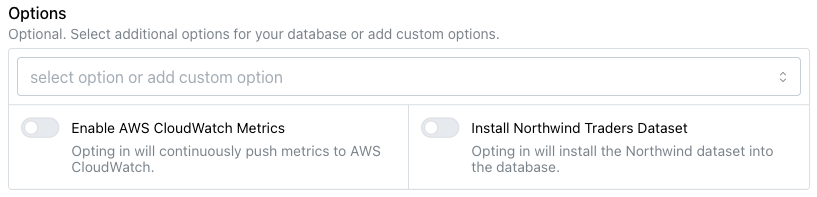
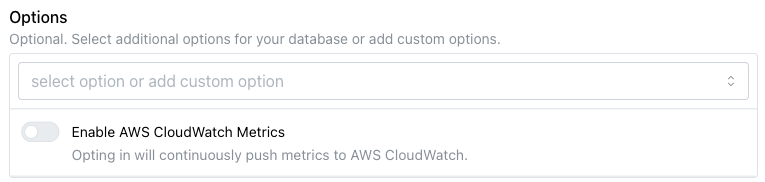
Updated screenshot in create_db for services/options changes

diff --git a/docs/cloud/database/create_db.md b/docs/cloud/database/create_db.md
@@ -48,13 +48,14 @@ database is provisioned:
 
 ![Selecting database options](../images/create_db_options.png)
 
-* Use the toggle switch next to `Install Northwind Database` to install the
-  Northwind sample database and schema objects. 
 * Use the toggle switch next to `Enable AWS CloudWatch Metrics` to share
   metrics with [AWS CloudWatch](https://aws.amazon.com/cloudwatch/).
 
-Use the Services section to define 
+Use the `Services` section to add an [MCP server](https://docs.pgedge.com/pgedge-postgres-mcp-server/v1-0-0/) to your installation. Currently, MCP server functionality is supported only on private clusters with a defined ingress.  
 
+![Selecting database services](../images/create_db_services.png)
+
+Select the button labeled + MCP Server to add MCP server details for your database; for more information about adding or managing a service in the cloud, see [Adding pgEdge AI Tookit Functionality(../services.md)].
 
 After making your selections, click `Create Database` to initialize a
 Postgres database and start replicating data between the nodes in the
